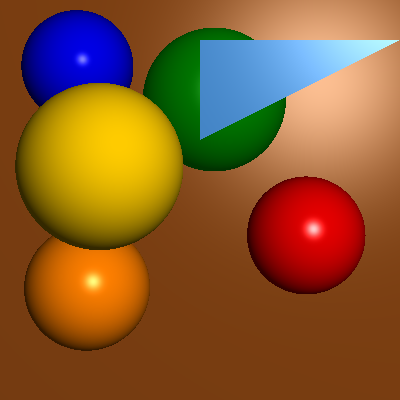
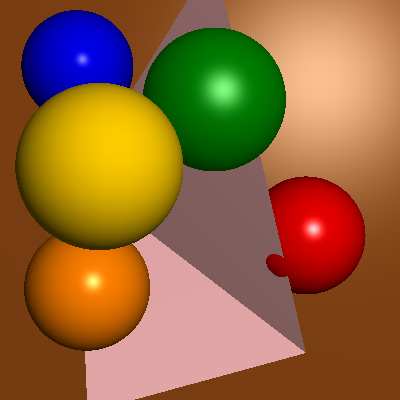
Implemented quad

Changed region(s): [[0.21, 0.39, 0.78, 1.0], [0.33, 0.0, 0.99, 0.36]]

diff --git a/Code/raytracer.cpp b/Code/raytracer.cpp
@@ -12,7 +12,6 @@
 #include "shapes/sphere.h"
 #include "shapes/triangle.h"
 #include "shapes/plane.h"
-#include "shapes/cylinder.h"
 
 // =============================================================================
 // -- End of shape includes ----------------------------------------------------
@@ -30,6 +29,7 @@ using json = nlohmann::json;
 bool Raytracer::parseObjectNode(json const &node)
 {
     ObjectPtr obj = nullptr;
+    ObjectPtr obj2 = nullptr;
 
 // =============================================================================
 // -- Determine type and parse object parametrers ------------------------------
@@ -46,6 +46,14 @@ bool Raytracer::parseObjectNode(json const &node)
         Point v1(node["v1"]);
         Point v2(node["v2"]);
         obj = ObjectPtr(new Triangle(v0, v1, v2));
+    } else if (node["type"] == "quad")
+    {
+        Point v0(node["v0"]);
+        Point v1(node["v1"]);
+        Point v2(node["v2"]);
+        Point v3(node["v3"]);
+        obj = ObjectPtr(new Triangle(v0, v1, v2));
+        obj2 = ObjectPtr(new Triangle(v0, v2, v3));
     } else if (node["type"] == "plane")
     {
         Point pos(node["position"]);
@@ -66,6 +74,12 @@ bool Raytracer::parseObjectNode(json const &node)
     // Parse material and add object to the scene
     obj->material = parseMaterialNode(node["material"]);
     scene.addObject(obj);
+    
+    if (obj2) {
+		obj2->material = parseMaterialNode(node["material"]);
+		scene.addObject(obj2);
+	}
+    
     return true;
 }
 
